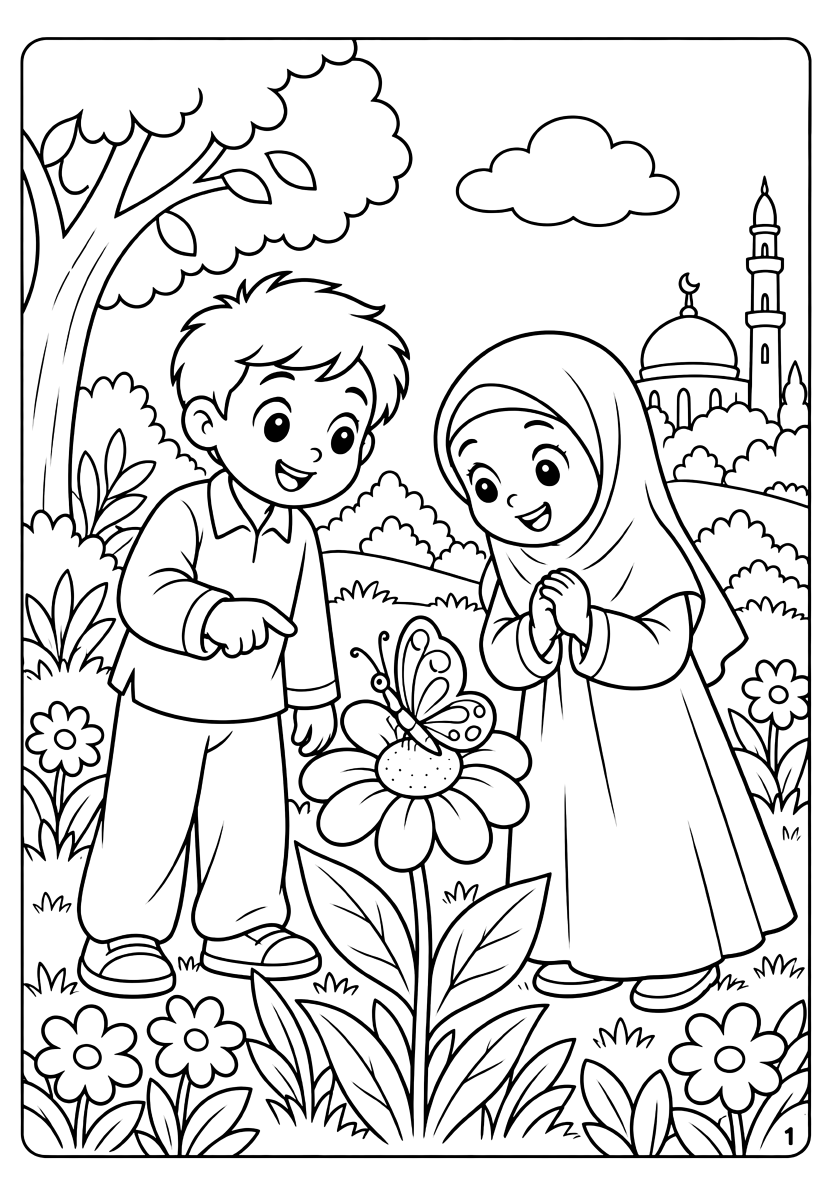
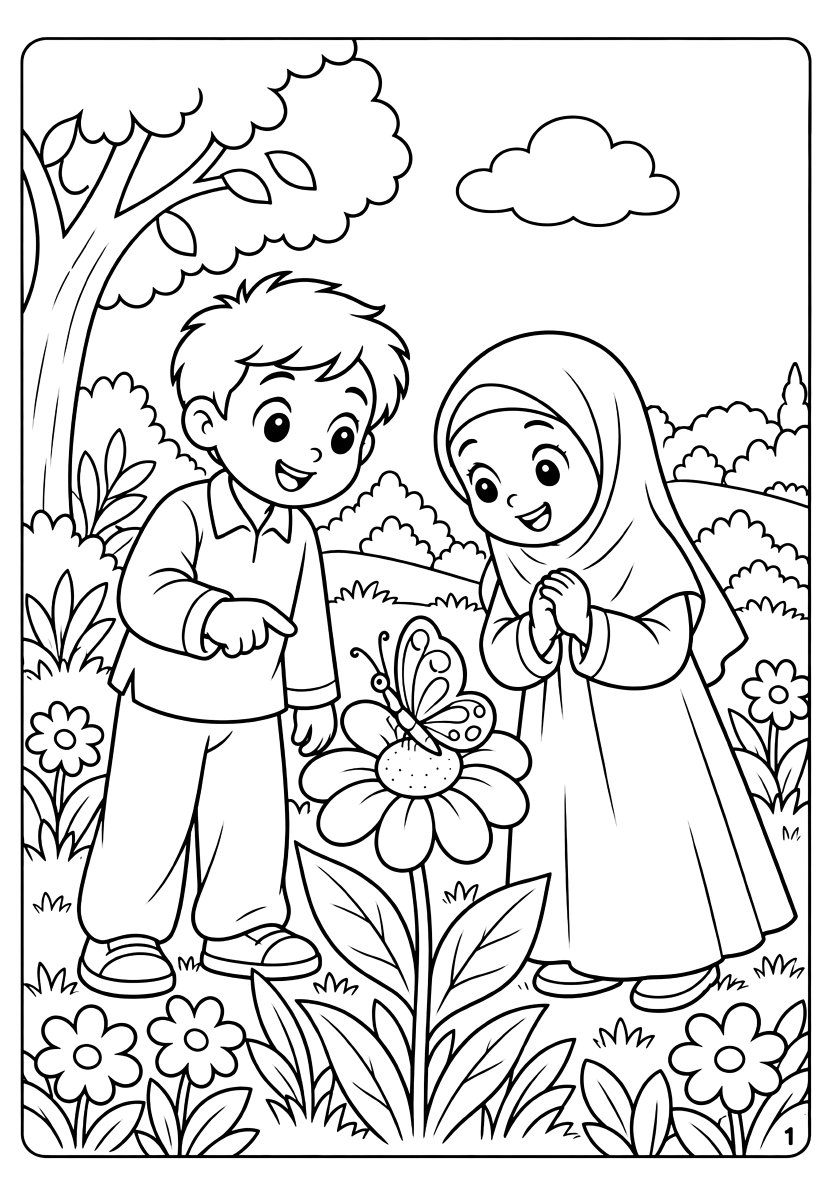
İyiliklerle Büyüyorum: 1. kitap 1. sayfadaki cami kaldırıldı
Boyama sayfası baskı dosyasıyla aynı hâle getirildi (V33). sw v5-4.

Changed region(s): [[0.75, 0.1547, 0.9375, 0.3712]]

diff --git a/iyilik/sw.js b/iyilik/sw.js
@@ -1,6 +1,6 @@
 // İyiliklerle Büyüyorum — çevrimdışı çalışma (kapsam: /iyilik/).
 // Çekirdek dosyalar kurulumda alınır; sayfa resimleri, oyun ikonları ve sesler ihtiyaç anında, bir kez indirilip saklanır.
-const V = 'iyilik-v5-3';
+const V = 'iyilik-v5-4';
 const CORE = `${V}-core`, RUN = `${V}-run`;
 const CORE_FILES = ['./', '1/', '2/', '3/', 'css/app.css', 'js/app.js', 'js/audio.js', 'js/icons.js', 'js/paint.js', 'js/sfx.js', 'js/cele.js', 'js/galeri.js', 'js/store.js', 'js/oyun.js',
   'font/nunito-latin.woff2', 'font/nunito-latin-ext.woff2', 'manifest.webmanifest', 'assets/icon.svg', 'assets/icon-192.png',
